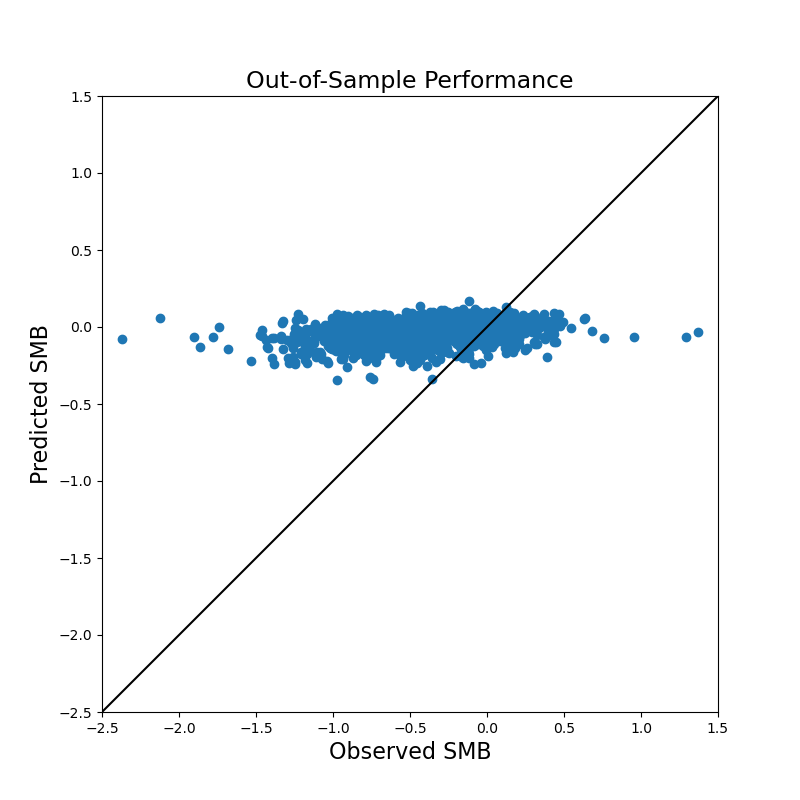
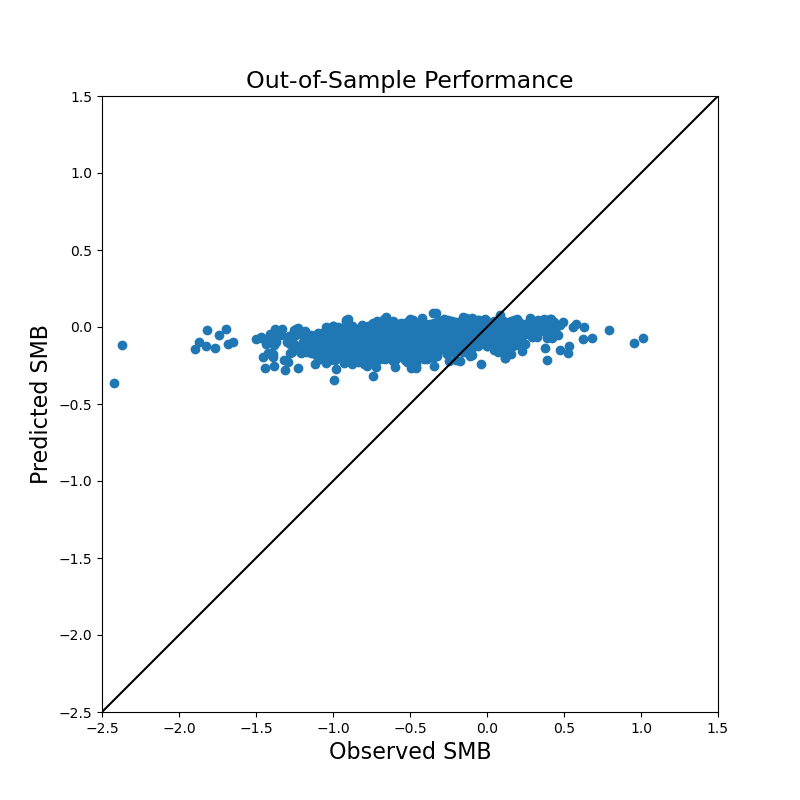
Added period-min and period-max numerical columns and re-ran

diff --git a/src/models/ridge/ridge.py b/src/models/ridge/ridge.py
@@ -1,4 +1,5 @@
 import numpy as np
+import utils  # TODO: delete
 
 class RidgeRegression():
     """Class to implement ridge regression, based on (3.42) in Hastie's 'Elements of Statistical Learning' (Springer, 2013).
@@ -173,7 +174,33 @@ class RidgeRegression():
         """
 
         A = self.reg * np.identity(self.N)
-        return (np.linalg.inv(np.dot(X.T, X) + A)).dot((X.T).dot(y))
+        matrix = np.dot(X.T, X) + A
+
+        try: 
+            result = np.linalg.inv(matrix).dot((X.T).dot(y))
+
+        except np.linalg.LinAlgError as err:
+            if 'Singular matrix' in str(err):
+                rows_equal = len(np.unique(matrix, axis=0)) < matrix.shape[0]
+                cols_equal = len(np.unique(matrix, axis=1)) < matrix.shape[1]
+                cols_zero = utils.nonzero(matrix).shape != matrix.shape
+                rows_zero = utils.nonzero(matrix.T).shape != (matrix.T).shape
+                
+                # Check if any rows or columns are equal
+                if rows_equal or cols_equal:
+                    raise ValueError(f'The matrix to be inverted in the solve step has rows or columns that are equal: rows check returned {rows_equal} and columns check returned {cols_equal}.')
+
+                # Check if any rows or columns have all-zero values
+                elif rows_zero or cols_zero:
+                    raise ValueError(f'The matrix to be inverted in the solve step has rows or columns that are all zero: rows check returned {rows_zero} and columns check returned {cols_zero}.')
+
+                # For some computational reason, the matrix is still non-singular - add some small noise independent of the response y
+                else:
+                    print('Adding some noise to the matrix to make inversion possible.')
+                    matrix = matrix + (np.random.random(matrix.shape) / 10)  #  noise in range [0, 0.1)
+                    result = np.linalg.inv(matrix).dot((X.T).dot(y))
+        
+        return result
 
 
     def save(self, destination):

diff --git a/src/models/ridge/utils.py b/src/models/ridge/utils.py
@@ -47,7 +47,8 @@ def numeric_only(data):
             droplist.append(col)
 
     num = data.drop(droplist, axis=1, inplace=False)
-    return num.to_numpy()
+    num.to_numpy()
+    return np.array(num, dtype='int64')
 
 
 def normalize(X):

diff --git a/src/models/ridge/run.py b/src/models/ridge/run.py
@@ -65,4 +65,4 @@ else:
     utils.plot_prediction(test_y, yhat, title="Out-of-Sample Performance")
 
 
-print("Ok.") 
+print("Done.") 
